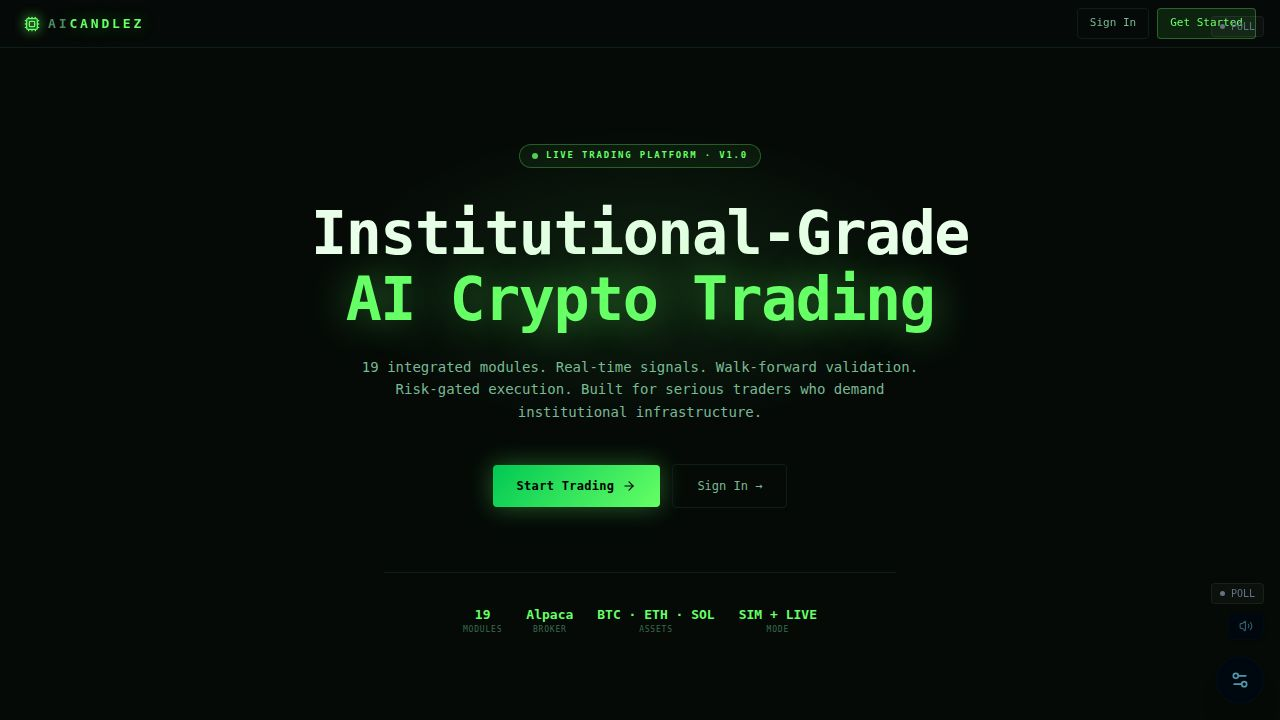
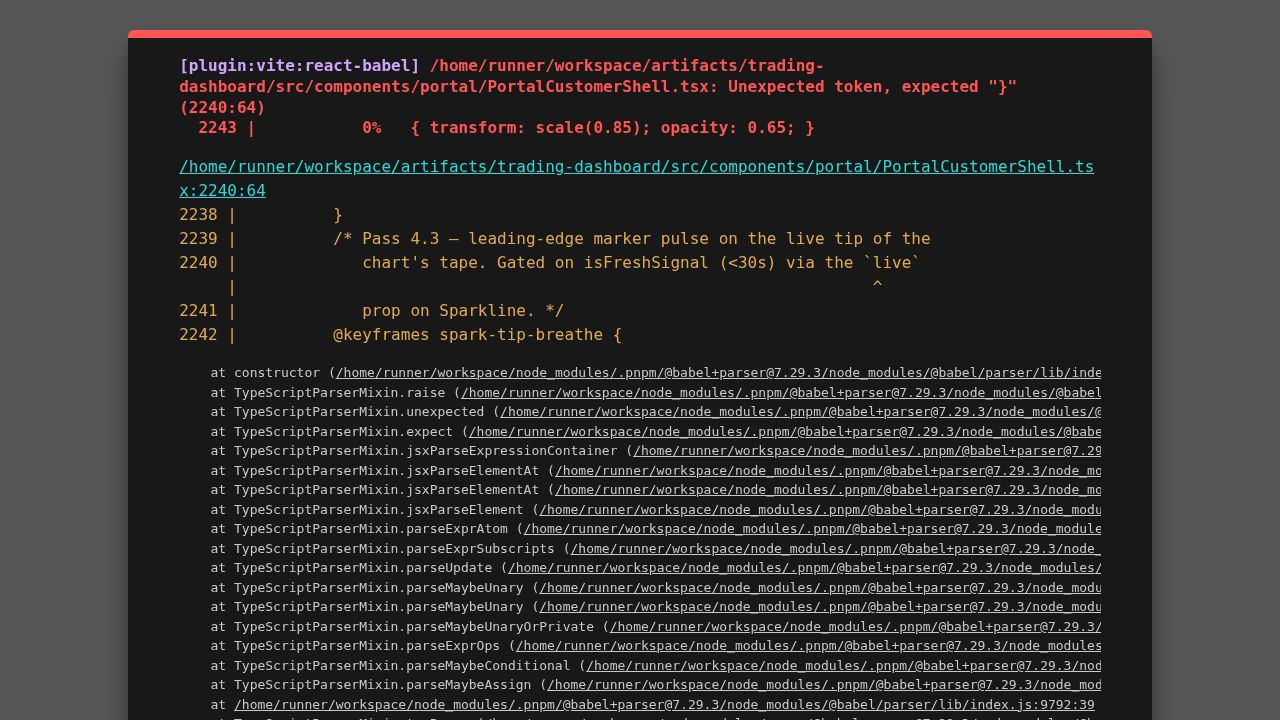
Expand chart presence and make them feel live
Rewrite the Sparkline component to use a viewBox for full-width scaling, add a neon glow effect, and introduce a "live" mode with a breathing tip marker and a tape-advance shimmer. The OpportunityCard layout is also adjusted to give the chart more visual dominance.

Replit-Commit-Author: Agent
Replit-Commit-Session-Id: 021fd745-d807-4705-b743-c3ef0bbe9327
Replit-Commit-Checkpoint-Type: full_checkpoint
Replit-Commit-Event-Id: e6c1ce49-c3ff-41bd-bf9f-2a01d9208949
Replit-Commit-Screenshot-Url: https://storage.googleapis.com/screenshot-production-us-central1/a96820aa-dbdf-4d4c-8234-2f5bde0d231a/021fd745-d807-4705-b743-c3ef0bbe9327/F2BrYfQ
Replit-Helium-Checkpoint-Created: true

diff --git a/artifacts/trading-dashboard/src/components/portal/PortalCustomerShell.tsx b/artifacts/trading-dashboard/src/components/portal/PortalCustomerShell.tsx
@@ -720,34 +720,132 @@ function computeMarketPulse(
   };
 }
 
-function Sparkline({ data, color }: { data: number[]; color: string }) {
-  const w = 80, h = 36;
+/**
+ * Sparkline — Pass 4.3 cinematic upgrade.
+ *
+ * Promoted from a tiny 80×36 boxed widget into a full-card-width
+ * execution-telemetry band. Renders via viewBox so the SVG fluidly
+ * stretches across whatever container it's dropped into (the card's
+ * dedicated chart row is 100% wide). Three visual layers, all tied to
+ * real telemetry — no decorative motion:
+ *
+ *  1. Mean-baseline reference line (institutional restraint cue —
+ *     gives the line context against where the asset has been).
+ *  2. Area fill gradient (stronger than v4.1: 0.55→0) so the chart
+ *     reads as "filled volume", not "thin line on black".
+ *  3. Stroke layered with multi-blur drop-shadow for cinematic neon
+ *     glow without arcade tint.
+ *
+ * Live-mode (gated by `live` prop, set when tick <10s) adds:
+ *  - leading-edge marker dot at the most recent point with a soft
+ *    radial glow — visually anchors "this is the live tip of the tape"
+ *  - tape-advance shimmer (a vertical light band that crosses the
+ *    chart once every 6s) — communicates active market flow without
+ *    crossing into arcade territory.
+ */
+function Sparkline({
+  data, color, height = 60, live = false, seedDelayMs = 0,
+}: {
+  data: number[];
+  color: string;
+  height?: number;
+  live?: boolean;
+  seedDelayMs?: number;
+}) {
+  // viewBox coords — we'll scale via preserveAspectRatio=none so the
+  // SVG stretches to any container width while the chart line stays
+  // crisp (vector). VBW chosen large enough that per-bar steps don't
+  // round-snap together on long series.
+  const VBW = 320;
+  const VBH = height;
   const min = Math.min(...data);
   const max = Math.max(...data);
   const range = max - min || 1;
-  const step = w / Math.max(1, data.length - 1);
-  const points = data.map((v, i) => `${(i * step).toFixed(1)},${(h - ((v - min) / range) * h).toFixed(1)}`).join(" ");
+  const mean = data.reduce((a, b) => a + b, 0) / Math.max(1, data.length);
+  const meanY = (VBH - ((mean - min) / range) * VBH).toFixed(1);
+  const step = VBW / Math.max(1, data.length - 1);
+  const pts  = data.map((v, i) => ({
+    x: i * step,
+    y: VBH - ((v - min) / range) * VBH,
+  }));
+  const points  = pts.map(p => `${p.x.toFixed(1)},${p.y.toFixed(1)}`).join(" ");
+  const lastPt  = pts[pts.length - 1];
   // Per-instance unique id — avoids duplicate-DOM-id coupling across many
   // sparklines (architect nit, Pass 4.1). useId() output contains ":" which
   // SVG url(#...) tolerates, but sanitize for safety against future XML
   // serializers.
   const rawId  = useId();
-  const gradId = `spark-grad-${rawId.replace(/[^a-zA-Z0-9]/g, "")}`;
+  const safe   = rawId.replace(/[^a-zA-Z0-9]/g, "");
+  const gradId = `spark-grad-${safe}`;
+  const tipId  = `spark-tip-${safe}`;
   return (
-    <svg width={w} height={h} style={{ overflow: "visible" }}>
+    <svg
+      width="100%"
+      height={height}
+      viewBox={`0 0 ${VBW} ${VBH}`}
+      preserveAspectRatio="none"
+      style={{ overflow: "visible", display: "block" }}
+    >
       <defs>
         <linearGradient id={gradId} x1="0" x2="0" y1="0" y2="1">
-          <stop offset="0%"  stopColor={color} stopOpacity="0.40" />
-          <stop offset="100%" stopColor={color} stopOpacity="0" />
+          <stop offset="0%"   stopColor={color} stopOpacity="0.55" />
+          <stop offset="55%"  stopColor={color} stopOpacity="0.18" />
+          <stop offset="100%" stopColor={color} stopOpacity="0"    />
         </linearGradient>
+        <radialGradient id={tipId} cx="50%" cy="50%" r="50%">
+          <stop offset="0%"   stopColor={color} stopOpacity="1"   />
+          <stop offset="60%"  stopColor={color} stopOpacity="0.5" />
+          <stop offset="100%" stopColor={color} stopOpacity="0"   />
+        </radialGradient>
       </defs>
-      <polygon points={`0,${h} ${points} ${w},${h}`} fill={`url(#${gradId})`} />
+      {/* Mean baseline — dashed, low-opacity reference rail */}
+      <line
+        x1={0} x2={VBW} y1={meanY} y2={meanY}
+        stroke={color} strokeOpacity={0.22}
+        strokeWidth={1} strokeDasharray="4 6"
+        vectorEffect="non-scaling-stroke"
+      />
+      {/* Area fill */}
+      <polygon
+        points={`0,${VBH} ${points} ${VBW},${VBH}`}
+        fill={`url(#${gradId})`}
+      />
+      {/* Soft outer glow stroke */}
       <polyline
         points={points}
-        fill="none" stroke={color} strokeWidth={2}
+        fill="none" stroke={color} strokeWidth={5}
         strokeLinecap="round" strokeLinejoin="round"
-        style={{ filter: `drop-shadow(0 0 3px ${color}) drop-shadow(0 0 6px ${color})` }}
+        strokeOpacity={0.28}
+        vectorEffect="non-scaling-stroke"
+        style={{ filter: `blur(2.5px)` }}
       />
+      {/* Crisp inner stroke with multi-layer drop-shadow halo */}
+      <polyline
+        points={points}
+        fill="none" stroke={color} strokeWidth={2.4}
+        strokeLinecap="round" strokeLinejoin="round"
+        vectorEffect="non-scaling-stroke"
+        style={{ filter: `drop-shadow(0 0 2px ${color}) drop-shadow(0 0 5px ${color}) drop-shadow(0 0 10px ${color})` }}
+      />
+      {/* Leading-edge live marker — only when telemetry is fresh */}
+      {live && lastPt && (
+        <>
+          <circle
+            cx={lastPt.x} cy={lastPt.y} r={5}
+            fill={`url(#${tipId})`}
+            style={{
+              animation: `spark-tip-breathe 1.6s ease-in-out infinite`,
+              animationDelay: `-${seedDelayMs}ms`,
+              transformOrigin: `${lastPt.x}px ${lastPt.y}px`,
+            }}
+          />
+          <circle
+            cx={lastPt.x} cy={lastPt.y} r={1.6}
+            fill={color}
+            style={{ filter: `drop-shadow(0 0 3px ${color}) drop-shadow(0 0 6px ${color})` }}
+          />
+        </>
+      )}
     </svg>
   );
 }
@@ -799,7 +897,7 @@ const OpportunityCard = memo(function OpportunityCard({ opp, onQueue, idx = 0, n
         paddingLeft: 18,
         display: "flex", flexDirection: "column", gap: 10,
         position: "relative", overflow: "hidden",
-        height: 328,
+        height: 362,
         fontFamily: T.FONT_MONO,
         // Deterministic hover cadence — background + border tinted in lock-step.
         transition: `background-color ${T.TX_FAST}, border-color ${T.TX_FAST}`,
@@ -952,57 +1050,88 @@ const OpportunityCard = memo(function OpportunityCard({ opp, onQueue, idx = 0, n
         <PriceCell label="R:R"    value={rr}                   tone={dirColor} align="right" />
       </div>
 
-      {/* Sparkline + details row */}
-      <div style={{ display: "flex", justifyContent: "space-between", alignItems: "flex-end" }}>
-        <div style={{ position: "relative", width: 80, height: 36 }}>
-          <Sparkline data={opp.sparkline} color={sparkColor} />
-          {/* v4.1 spark-drift scan dot — only when signal has updated within the last 30s.
-              Communicates "this price stream is live"; stale cards keep a static sparkline. */}
-          {isFreshSignal && (
-            <span
-              aria-hidden
-              style={{
-                position: "absolute", top: 16, left: 0,
-                width: 3, height: 3, borderRadius: "50%",
-                background: sparkColor, boxShadow: `0 0 4px ${sparkColor}`,
-                animation: "spark-drift 5s linear infinite",
-                animationDelay: `-${sparkDelayMs}ms`,
-                pointerEvents: "none",
-              }}
-            />
-          )}
+      {/* Meta strip — exchanges · quality · age/latency · score
+          Pulled OUT from underneath the chart so the chart can dominate
+          its own row. Single horizontal line keeps vertical real estate
+          for the telemetry band below. */}
+      <div style={{
+        display: "flex", alignItems: "center", justifyContent: "space-between",
+        gap: 8, fontSize: 10, color: T.TEXT_2,
+      }}>
+        <div style={{ display: "flex", gap: 3, alignItems: "center" }}>
+          {opp.exchanges.map(ex => (
+            <span key={ex} style={{
+              fontSize: 9, color: T.TEXT_2,
+              background: "rgba(255,255,255,0.05)", padding: "1px 5px", borderRadius: 2,
+            }}>{ex}</span>
+          ))}
+          <span style={{ color: T.TEXT_1, marginLeft: 6 }}>{opp.quality}</span>
         </div>
-        <div style={{ display: "flex", flexDirection: "column", alignItems: "flex-end", gap: 4 }}>
-          <div style={{ display: "flex", gap: 3 }}>
-            {opp.exchanges.map(ex => (
-              <span key={ex} style={{
-                fontSize: 9, color: T.TEXT_2,
-                background: "rgba(255,255,255,0.05)", padding: "1px 5px", borderRadius: 2,
-              }}>{ex}</span>
-            ))}
-          </div>
-          <span style={{ fontSize: 10, color: T.TEXT_1 }}>{opp.quality}</span>
-          <div style={{ display: "flex", alignItems: "center", gap: 6 }}>
-            <span
-              title={`Signal age ${ageStr} · execution latency ${opp.latency}`}
-              style={{
-                fontSize: 10, color: T.TEXT_2,
-                // Flicker only while telemetry is genuinely live (<10s since update).
-                // Static otherwise — prevents 20 cards from breathing in perpetuity.
-                animation: isLiveTick ? "telemetry-flicker 1.6s ease-in-out infinite" : undefined,
-                animationDelay: isLiveTick ? `-${flickerDelayMs}ms` : undefined,
-                fontVariantNumeric: "tabular-nums",
-              }}>
-              <span style={{ color: T.TEXT_1 }}>{ageStr}</span>
-              <span style={{ opacity: 0.45, margin: "0 4px" }}>·</span>
-              {opp.latency}
-            </span>
-            <span style={{
-              fontSize: 11, background: "rgba(255,255,255,0.08)",
-              color: T.TEXT_0, padding: "1px 6px", borderRadius: 2,
-            }}>{opp.score}</span>
-          </div>
+        <div style={{ display: "flex", alignItems: "center", gap: 6 }}>
+          <span
+            title={`Signal age ${ageStr} · execution latency ${opp.latency}`}
+            style={{
+              color: T.TEXT_2,
+              // Flicker only while telemetry is genuinely live (<10s since update).
+              // Static otherwise — prevents 20 cards from breathing in perpetuity.
+              animation: isLiveTick ? "telemetry-flicker 1.6s ease-in-out infinite" : undefined,
+              animationDelay: isLiveTick ? `-${flickerDelayMs}ms` : undefined,
+              fontVariantNumeric: "tabular-nums",
+            }}>
+            <span style={{ color: T.TEXT_1 }}>{ageStr}</span>
+            <span style={{ opacity: 0.45, margin: "0 4px" }}>·</span>
+            {opp.latency}
+          </span>
+          <span style={{
+            fontSize: 11, background: "rgba(255,255,255,0.08)",
+            color: T.TEXT_0, padding: "1px 6px", borderRadius: 2,
+          }}>{opp.score}</span>
         </div>
+      </div>
+
+      {/* Pass 4.3 — full-width telemetry chart band.
+          Promoted from a tiny 80x36 boxed sparkline to a dominant row
+          that visually carries the card. Stretches edge-to-edge of the
+          card content box. tape-advance shimmer overlay is gated on
+          isLiveTick (under 10s since last update) so only actively-
+          ticking cards show market motion; stale cards stay still. */}
+      <div style={{
+        position: "relative",
+        width: "100%",
+        height: 60,
+        marginTop: 2,
+        background: "linear-gradient(180deg, rgba(255,255,255,0.012) 0%, rgba(0,0,0,0) 100%)",
+        borderTop: `1px solid ${T.BORDER}`,
+        borderBottom: `1px solid ${T.BORDER}`,
+        overflow: "hidden",
+      }}>
+        <Sparkline
+          data={opp.sparkline}
+          color={sparkColor}
+          height={60}
+          live={isFreshSignal}
+          seedDelayMs={sparkDelayMs}
+        />
+        {/* Tape-advance shimmer — a vertical translucent band that
+            sweeps left-to-right once every 6s, visually communicating
+            "market is actively flowing through this asset". Only
+            mounts when the signal stream is live (under 10s); stale
+            cards keep a static chart. Per-card deterministic delay so
+            the grid does not sync. */}
+        {isLiveTick && (
+          <span
+            aria-hidden
+            style={{
+              position: "absolute", top: 0, bottom: 0, left: 0, width: 80,
+              background: `linear-gradient(90deg, transparent 0%, ${sparkColor} 50%, transparent 100%)`,
+              opacity: 0.10,
+              pointerEvents: "none",
+              animation: "tape-advance 6s linear infinite",
+              animationDelay: `-${sparkDelayMs}ms`,
+              willChange: "transform",
+            }}
+          />
+        )}
       </div>
 
       {/* Footer: readiness + action */}
@@ -2106,6 +2235,22 @@ export function PortalCustomerShell() {
           50%  { opacity: 1; }
           80%  { opacity: 0.5; }
           100% { transform: translateX(77px); opacity: 0; }
+        }
+        /* Pass 4.3 — leading-edge marker pulse on the live tip of the
+           chart tape. Gated on isFreshSignal (under 30s) via the live
+           prop on Sparkline. */
+        @keyframes spark-tip-breathe {
+          0%   { transform: scale(0.85); opacity: 0.65; }
+          50%  { transform: scale(1.25); opacity: 1.00; }
+          100% { transform: scale(0.85); opacity: 0.65; }
+        }
+        /* Pass 4.3 — tape-advance: subtle vertical light band that
+           crosses the chart left→right over 6s, communicating active
+           market flow without arcade tint. Gated on isLiveTick (<10s)
+           via the OpportunityCard render condition. */
+        @keyframes tape-advance {
+          0%   { transform: translateX(-100%); }
+          100% { transform: translateX(1200%); }
         }
         @keyframes ring-sweep {
           0%   { transform: rotate(-90deg); }